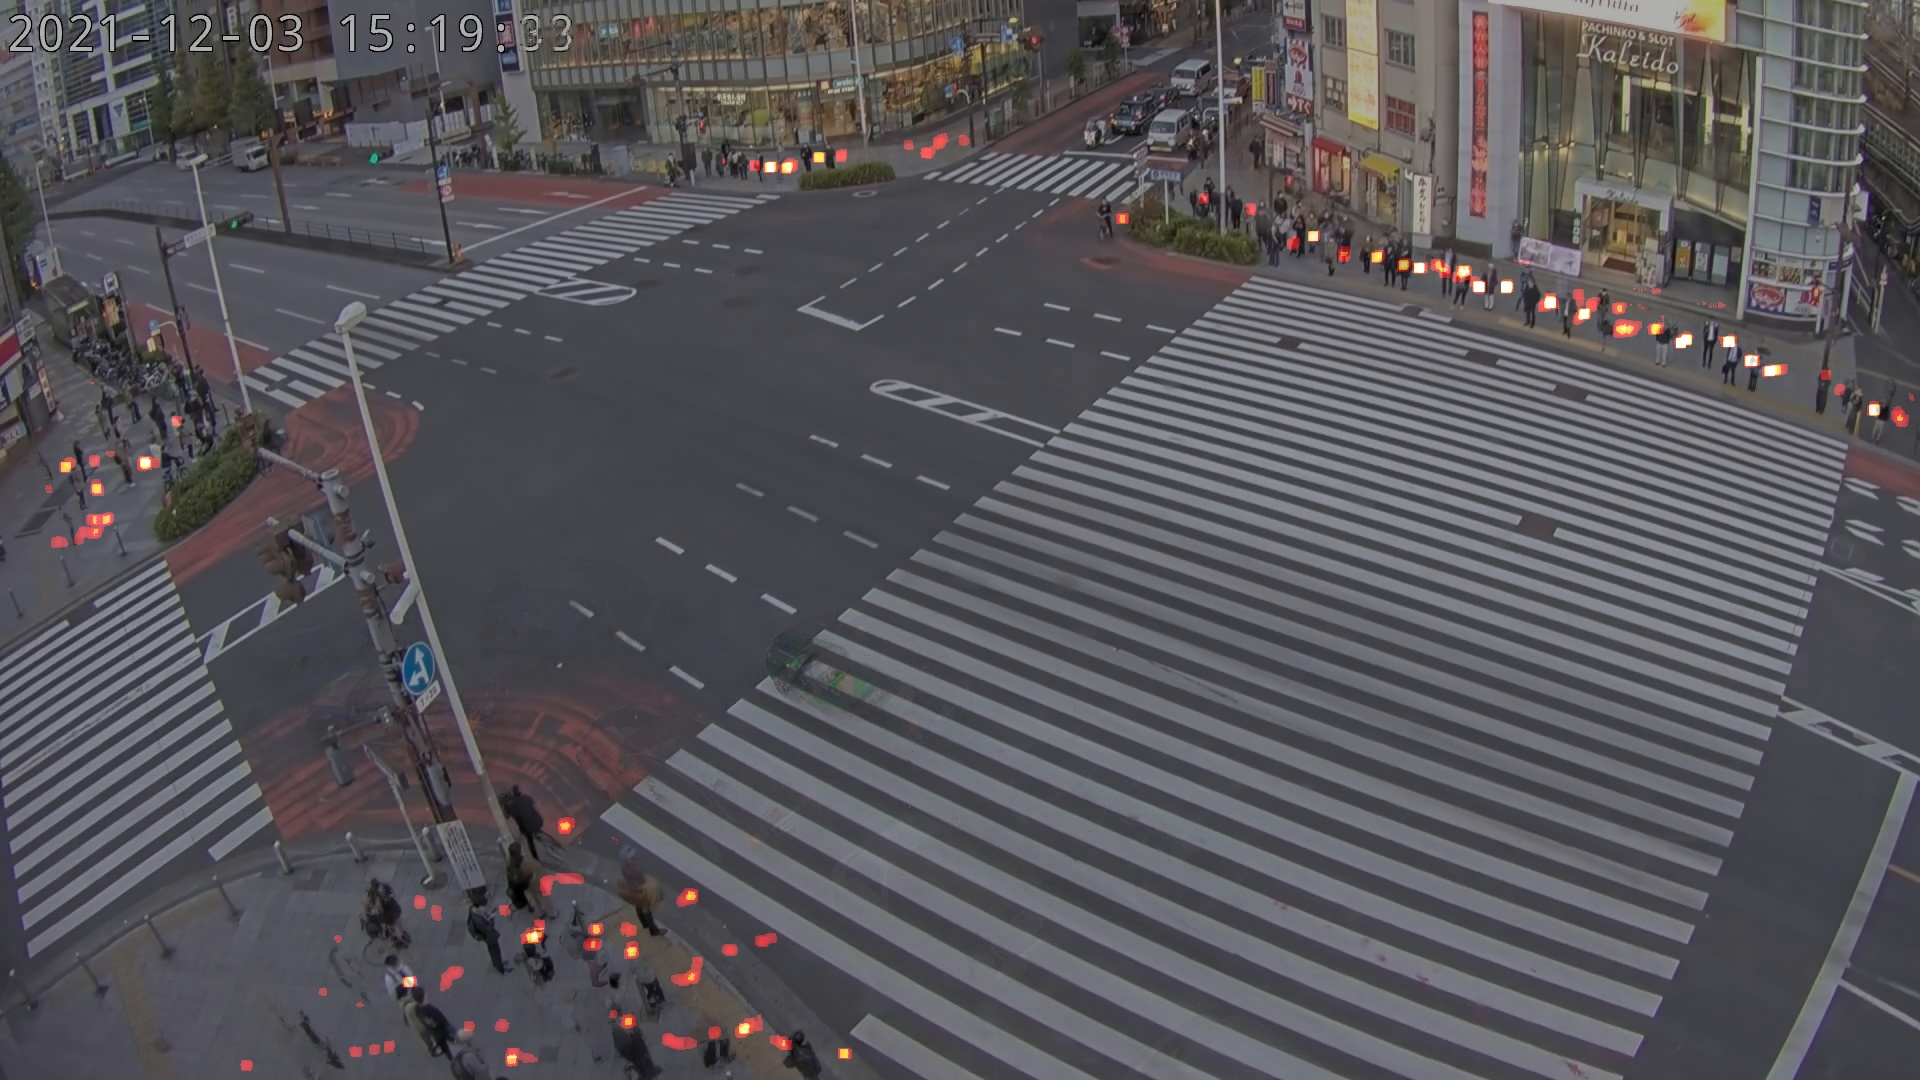
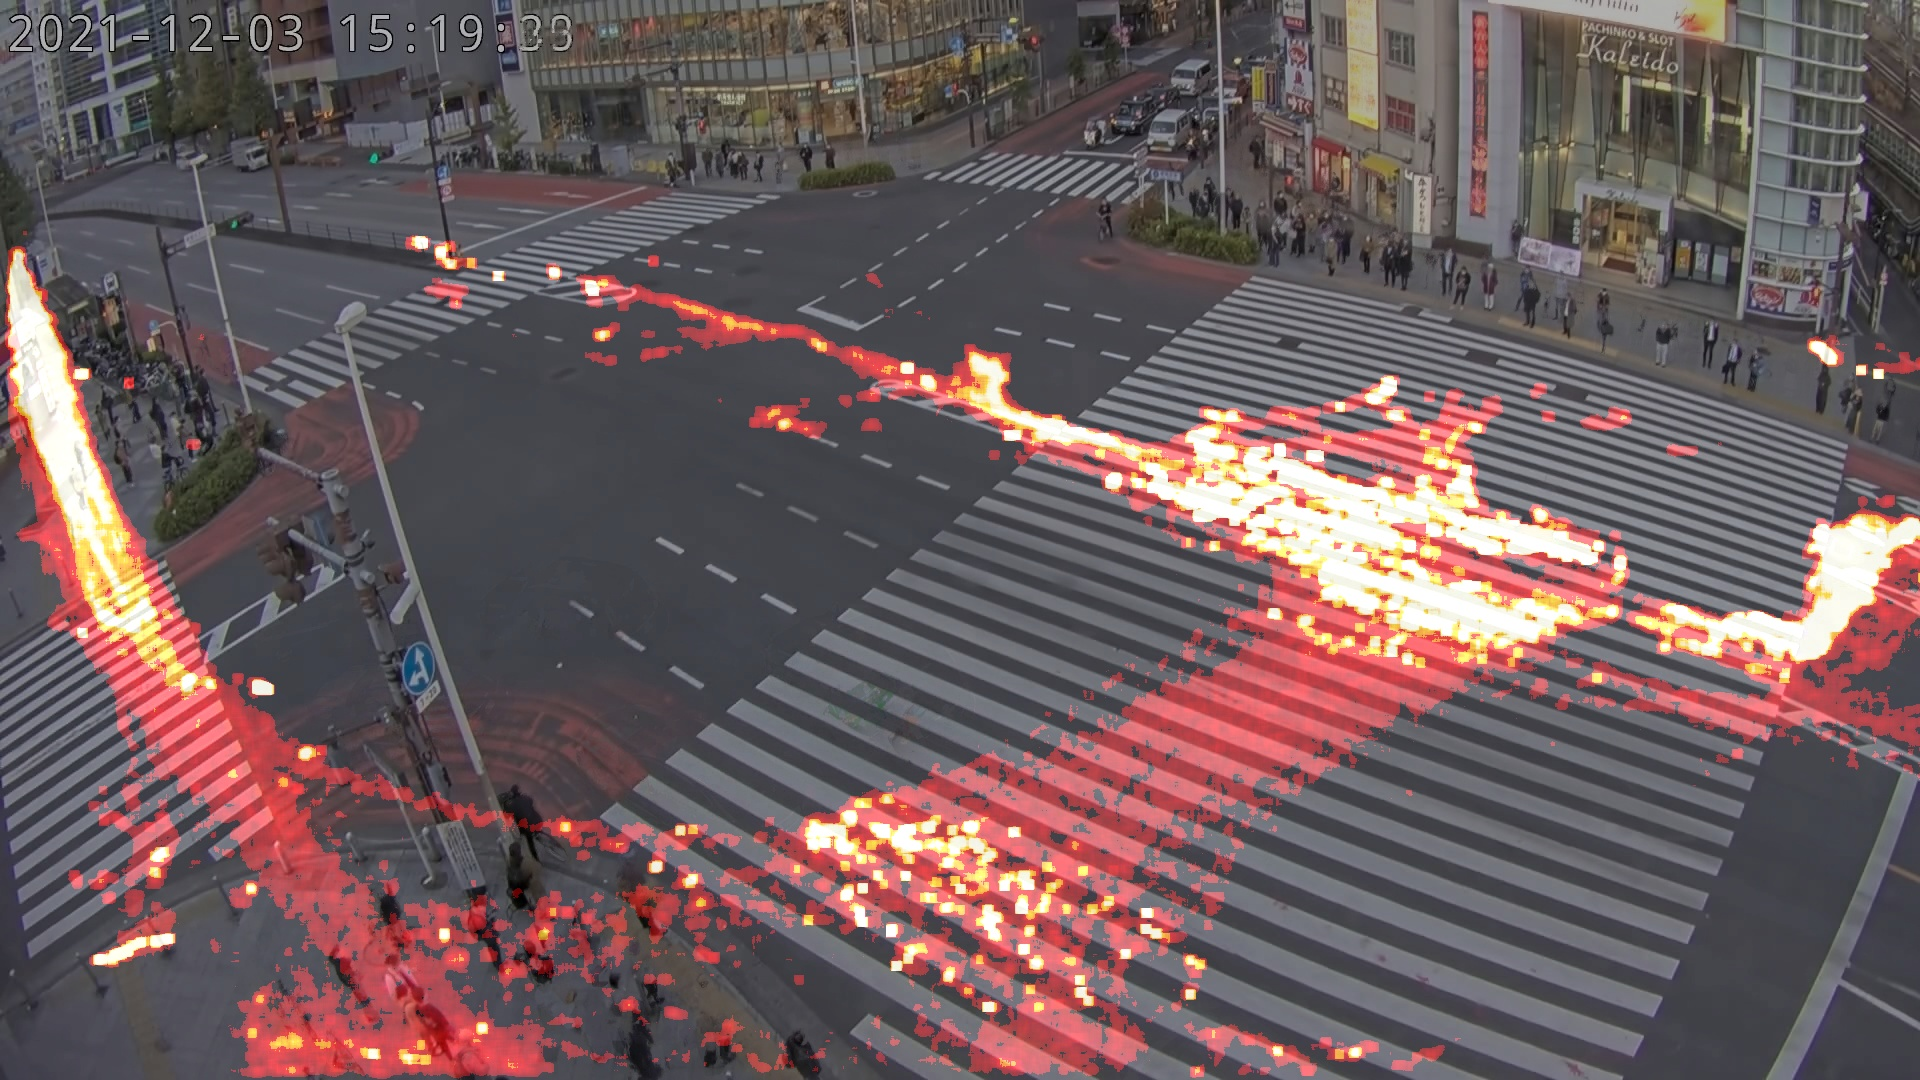
v1.3

diff --git a/create_heatmap.py b/create_heatmap.py
@@ -30,9 +30,9 @@ class Create_Heatmap():
 
 
 
-        self.path_labels = yolo(input_path)
+        # self.path_labels = yolo(input_path)
 
-        # self.path_labels = 'yolov5/runs/detect/exp/labels'
+        self.path_labels = 'yolov5/runs/detect/exp/labels'
 
         self.height, self.width = background(input_path, 
                                             background_count=background_count)
